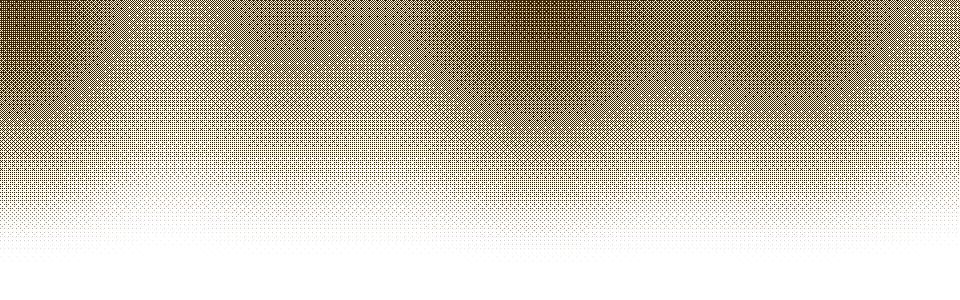
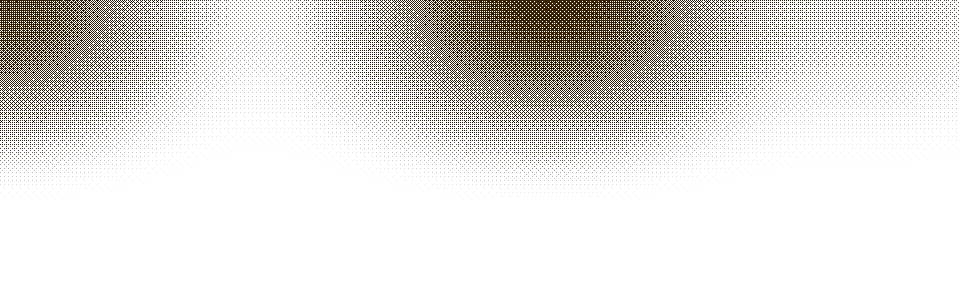
fix(web): the atmosphere's light falls in shafts with dark between, as in the reference

diff --git a/scripts/export-atmosphere.py b/scripts/export-atmosphere.py
@@ -4,8 +4,8 @@ Usage: python3 scripts/export-atmosphere.py
 
 Needs Pillow. Each pixel of the image is one dither cell; the web draws it at
 2 CSS px per cell with pixelated scaling, so the cells stay crisp. A field of
-light (strongest at the top, in soft vertical shafts, gone by about half the
-height) is thresholded against an 8x8 Bayer matrix, like an old printed
+light (strongest at the top, in vertical shafts with dark gaps between, gone
+by about two-thirds of the height) is thresholded against an 8x8 Bayer matrix, like an old printed
 halftone. Cells that are off stay transparent, so the panel shows through.
 """
 
@@ -48,9 +48,11 @@ def gauss(x, mu, sigma):
 
 def light(u, v):
     """The light at (u, v) in 0..1, u across, v down."""
-    shafts = 0.42 + 0.32 * gauss(u, 0.57, 0.15) + 0.28 * gauss(u, 0.03, 0.09)
-    shafts += 0.16 * gauss(u, 0.86, 0.12) + 0.08 * math.sin(u * 23.0 + 1.3)
-    fall = (1 - smoothstep(0.0, 1.0, v)) ** 1.1
+    # Two shafts with real darkness between them, as in a dim hall lit from high windows:
+    # a wide one right of centre, a narrower one at the left edge, a faint glow at the right.
+    shafts = 0.84 * gauss(u, 0.57, 0.12) + 0.72 * gauss(u, 0.0, 0.11)
+    shafts += 0.12 * gauss(u, 0.93, 0.1) + 0.05
+    fall = (1 - smoothstep(0.0, 0.85, v)) ** 1.6
     # Capped below 1 so even the brightest light keeps a few holes, as a print does.
     return min(max(shafts * fall, 0.0), 0.9)
 
@@ -74,8 +76,8 @@ def render(dim, bright, strength):
 
 def main():
     OUT.mkdir(parents=True, exist_ok=True)
-    # Dark: dim amber on the ink panel, its brightest cells about #4c2d08.
-    render((36, 22, 4), (76, 45, 8), 1.0).save(OUT / "atmosphere-dark.png", optimize=True)
+    # Dark: dim amber on the ink panel, its brightest cells about #3c2405.
+    render((30, 18, 3), (60, 36, 5), 1.0).save(OUT / "atmosphere-dark.png", optimize=True)
     # Light: a warm vermilion wash on paper, fainter so it never competes with ink text.
     render((248, 232, 220), (240, 204, 178), 0.65).save(OUT / "atmosphere-light.png", optimize=True)
 
